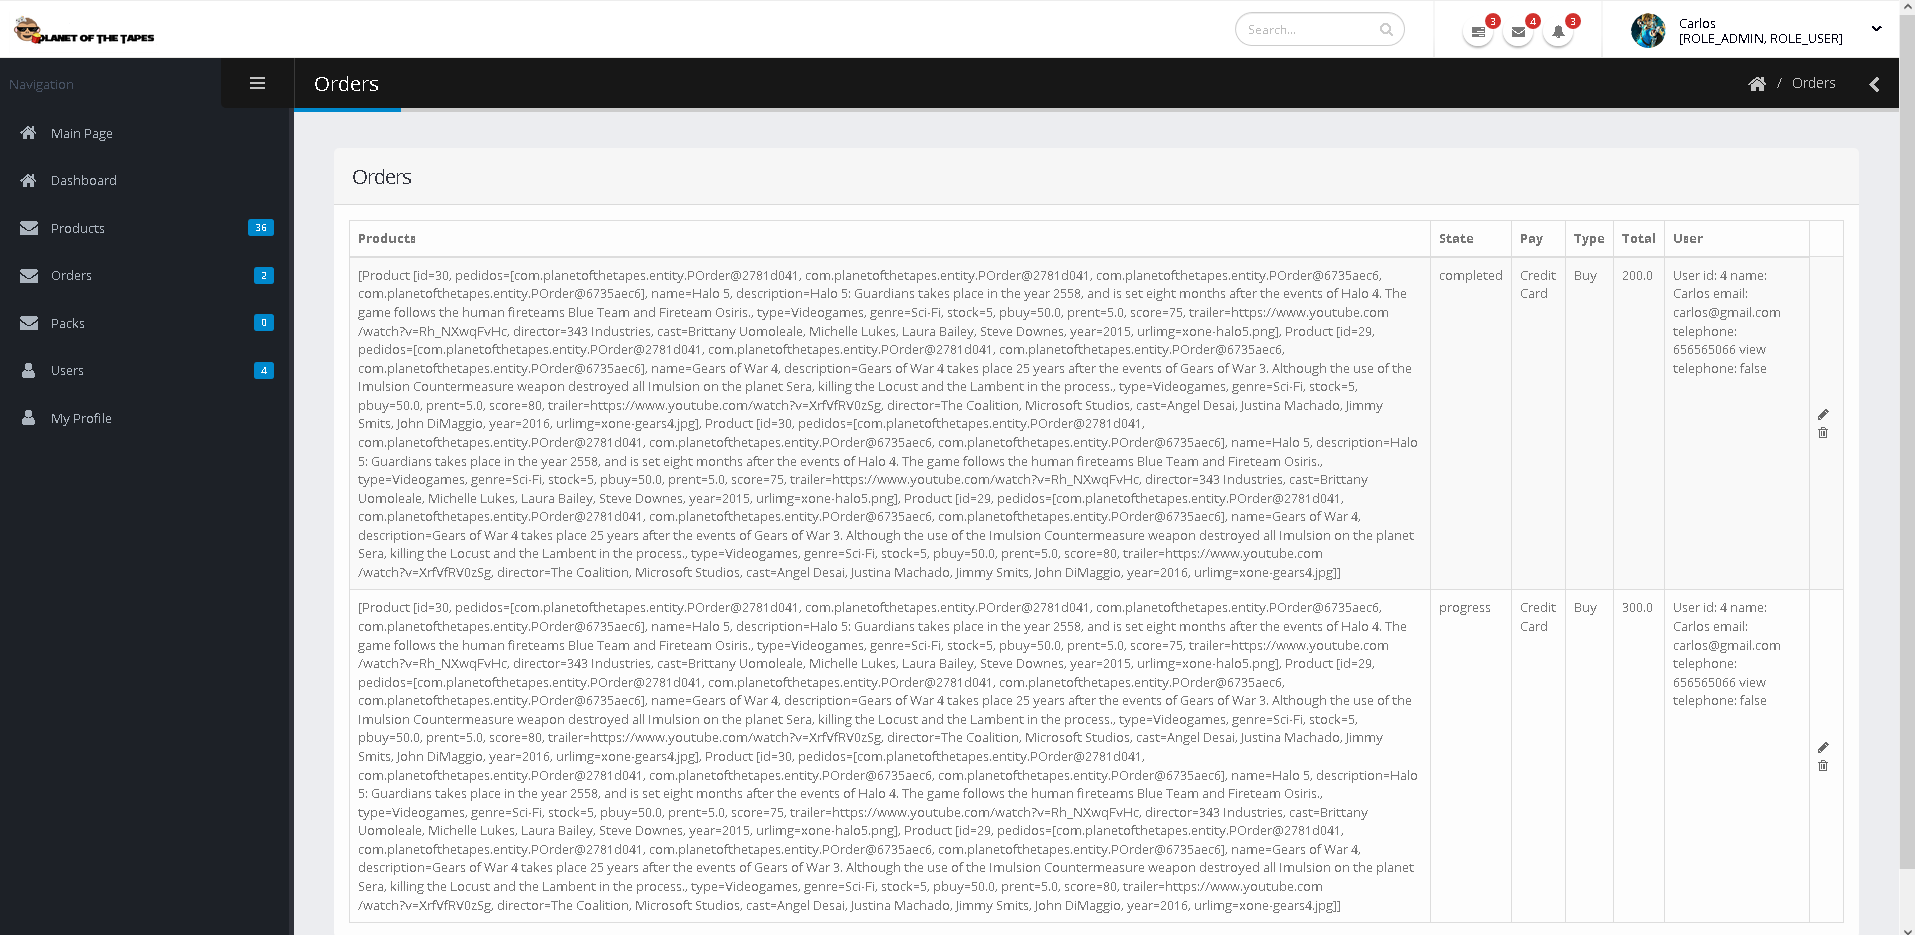
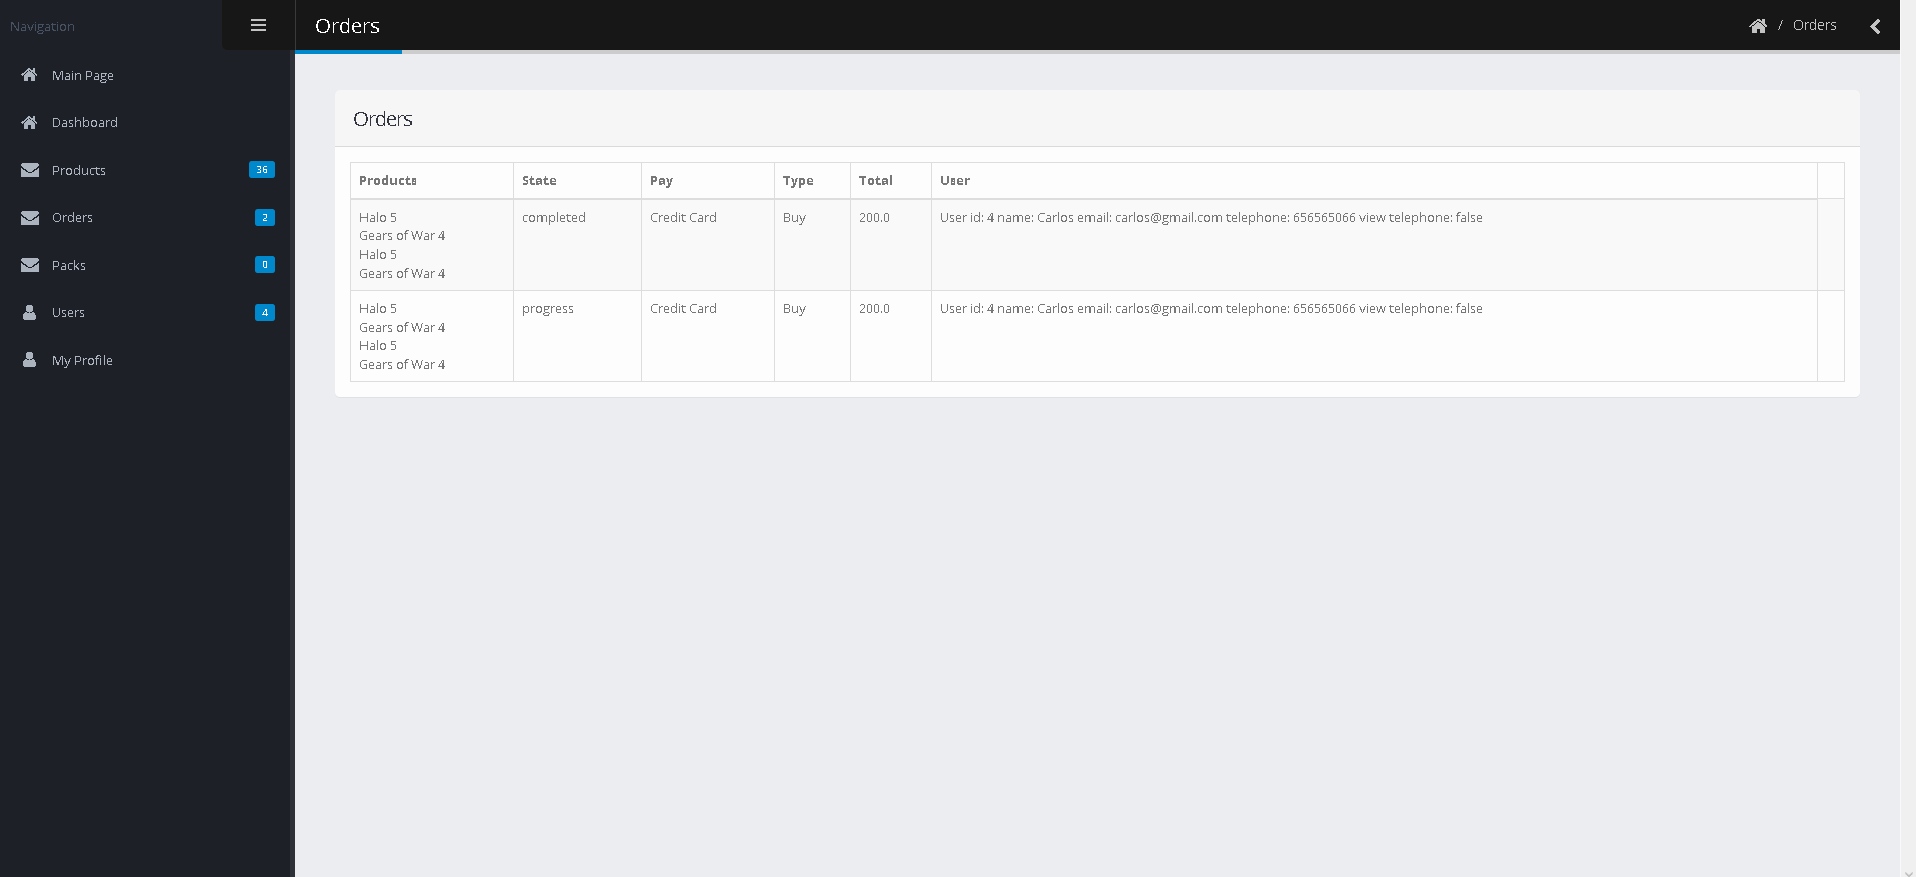
- Improved display of orders and packs

diff --git a/src/main/resources/templates/admin/admin-ordertable.html b/src/main/resources/templates/admin/admin-ordertable.html
@@ -1,5 +1,5 @@
 <tr data-item-id="1">
-	<td>{{products}}</td>
+	<td>{{#products}} {{>simpleitem}} {{/products}}</td>
 	<td>{{state}}</td>
 	<td>{{pay}}</td>
 	<td class="hidden-xs">{{type}}</td>
@@ -8,7 +8,7 @@
 	<td class="actions">
 		<a href="#" class="hidden on-editing save-row"><i class="fa fa-save"></i></a>
 		<a href="#" class="hidden on-editing cancel-row"><i class="fa fa-times"></i></a>
-		<a href="#" class="on-default edit-row"><i class="fa fa-pencil"></i></a>
-		<a href="/admin-remove-product" class="on-default remove-row"><i class="fa fa-trash-o"></i></a>
+		<a href="#" class="hidden on-default edit-row"><i class="fa fa-pencil"></i></a>
+		<a href="/admin-remove-product" class="hidden on-default remove-row"><i class="fa fa-trash-o"></i></a>
 	</td>
 </tr>

diff --git a/src/main/resources/templates/admin/admin-packtable.html b/src/main/resources/templates/admin/admin-packtable.html
@@ -1,12 +1,12 @@
 <tr data-item-id="1">
 	<td>{{name}}</td>
 	<td>{{price}}</td>
-	<td>{{products}}</td>
+	<td>{{#products}} {{>simpleitem}} {{/products}}</td>
 	
 	<td class="actions">
 		<a href="#" class="hidden on-editing save-row"><i class="fa fa-save"></i></a>
 		<a href="#" class="hidden on-editing cancel-row"><i class="fa fa-times"></i></a>
-		<a href="#" class="on-default edit-row"><i class="fa fa-pencil"></i></a>
+		<a href="#" class="hidden on-default edit-row"><i class="fa fa-pencil"></i></a>
 		<a href="/admin-remove-pack" class="on-default remove-row"><i class="fa fa-trash-o"></i></a>
 	</td>
 </tr>

diff --git a/src/main/resources/templates/admin/admin-userTable.html b/src/main/resources/templates/admin/admin-userTable.html
@@ -8,7 +8,7 @@
 	<td class="actions">
 		<a href="#" class="hidden on-editing save-row"><i class="fa fa-save"></i></a>
 		<a href="#" class="hidden on-editing cancel-row"><i class="fa fa-times"></i></a>
-		<a href="#" class="on-default edit-row"><i class="fa fa-pencil"></i></a>
+		<a href="#" class="hidden on-default edit-row"><i class="fa fa-pencil"></i></a>
 		<a href="/admin-remove-user" class="on-default remove-row"><i class="fa fa-trash-o"></i></a>
 	</td>
 </tr>

diff --git a/src/main/resources/templates/simpleitem.html b/src/main/resources/templates/simpleitem.html
@@ -1,0 +1,6 @@
+<head>
+<meta http-equiv="Content-type" content="text/html; charset=utf-8" />
+</head>
+<div>
+	<span>{{name}}</span>
+</div>
